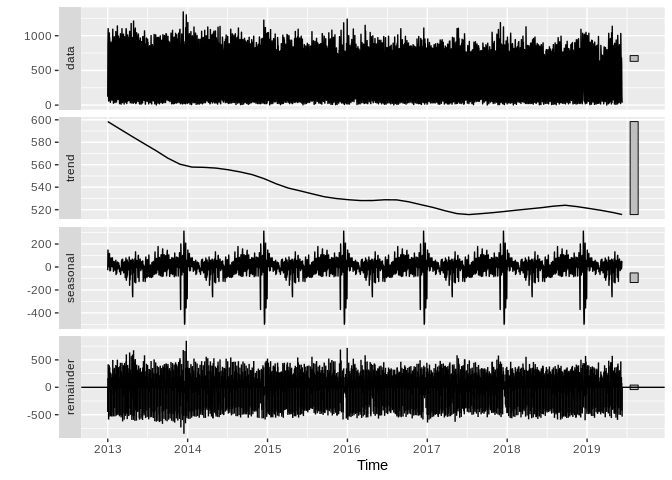
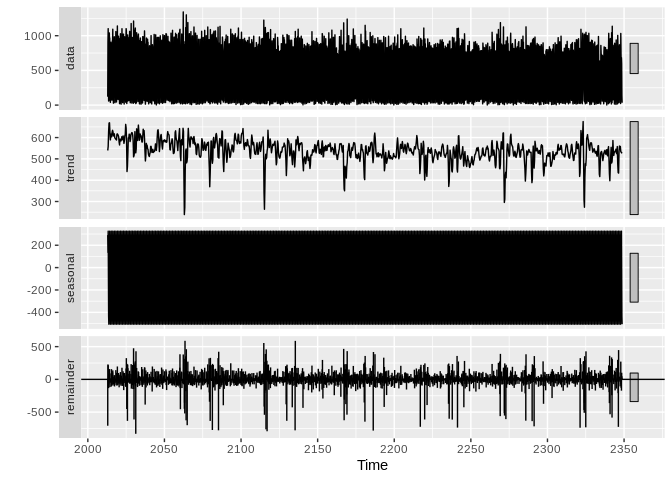
fix daily data frequency, build a quick skeleton for a bayesian approach

diff --git a/src/deliveries_lab.md b/src/deliveries_lab.md
@@ -29,7 +29,7 @@ dd <- na.omit(dd)
 ``` r
 ts.dd <- ts(dd$Deliveries, 
              start = as.numeric(c(2013, 1)), 
-             frequency = 365)  # This tells the series that it is daily data
+             frequency = 7)
 autoplot(ts.dd) + ggtitle("Daily deliveries of products") + ylab("Product deliveries")
 ```
 
@@ -47,20 +47,20 @@ autoplot(decomposed)  # Plot
 ![](deliveries_lab_files/figure-gfm/unnamed-chunk-3-1.png)<!-- -->
 
 ``` r
-mon <- rep(c(1, 0, 0, 0, 0, 0, 0), 100)
-tue <- rep(c(0, 1, 0, 0, 0, 0, 0), 100)
-wed <- rep(c(0, 0, 1, 0, 0, 0, 0), 100)
-thu <- rep(c(0, 0, 0, 1, 0, 0, 0), 100)
-fri <- rep(c(0, 0, 0, 0, 1, 0, 0), 100)
-sat <- rep(c(0, 0, 0, 0, 0, 1, 0), 100)
+mon <- rep(c(1, 0, 0, 0, 0, 0, 0), 52)
+tue <- rep(c(0, 1, 0, 0, 0, 0, 0), 52)
+wed <- rep(c(0, 0, 1, 0, 0, 0, 0), 52)
+thu <- rep(c(0, 0, 0, 1, 0, 0, 0), 52)
+fri <- rep(c(0, 0, 0, 0, 1, 0, 0), 52)
+sat <- rep(c(0, 0, 0, 0, 0, 1, 0), 52)
 
 week.m <- matrix(c(mon, tue, wed, thu, fri, sat),
                  ncol = 6,
                  byrow = FALSE)
 
-arima.e <- tsCV(tail(ts.dd, 700), farima, xreg = week.m, h = 1)
-arima.crit <- cMAPE(arima.e, tail(ts.dd, 700))
-arima.mape <- mean(abs(100*arima.e/tail(ts.dd, 700)), na.rm = TRUE)
+arima.e <- tsCV(tail(ts.dd, 364), farima, xreg = week.m, h = 1)
+arima.crit <- cMAPE(arima.e, tail(ts.dd, 364))
+arima.mape <- mean(abs(100*arima.e/tail(ts.dd, 364)), na.rm = TRUE)
 arima.rmse <- sqrt(mean(arima.e^2, na.rm = TRUE))
 
 arimabench <- matrix(c(arima.crit, arima.mape, arima.rmse),
@@ -73,10 +73,10 @@ kable(arimabench, "markdown")
 
 |        |    cMAPE |     MAPE | RMSE |
 | :----- | -------: | -------: | ---: |
-| DynReg | 38.57791 | 38.57791 |  255 |
+| DynReg | 6.075949 | 6.075949 |   48 |
 
 ``` r
-ets.e <- tsCV(tail(ts.dd, 70), fets, h = 1)
+ets.e <- tsCV(tail(ts.dd, 70), fTBATS, h = 1)
 ets.crit <- cMAPE(ets.e, tail(ts.dd, 70))
 ets.mape <- mean(abs(100*ets.e/tail(ts.dd, 70)), na.rm = TRUE)
 ets.rmse <- sqrt(mean(ets.e^2, na.rm = TRUE))
@@ -85,10 +85,39 @@ etsbench <- matrix(c(ets.crit, ets.mape, ets.rmse),
                ncol = 3,
                byrow = TRUE)
 colnames(etsbench) <- c("cMAPE", "MAPE", "RMSE")
-rownames(etsbench) <- c("ETS")
+rownames(etsbench) <- c("TBATS")
 kable(etsbench, "markdown")
 ```
 
-|     |    cMAPE |     MAPE |     RMSE |
-| :-- | -------: | -------: | -------: |
-| ETS | 500.9796 | 425.2318 | 368.0878 |
+|       |    cMAPE |     MAPE |     RMSE |
+| :---- | -------: | -------: | -------: |
+| TBATS | 285.9665 | 256.2595 | 238.7825 |
+
+## Try Bayesian approach for the heck of it
+
+``` r
+## BEGIN: function ##
+rabsts <- function(data, season.num, season.dur, pred.horizon) {
+  ##get trend or/and seasonal state
+  if(season.num==0){
+    ss <- bsts::AddLocalLinearTrend(list(), data)}
+  else{
+    ss <- bsts::AddLocalLinearTrend(list(), data)
+    ss <- bsts::AddSeasonal(ss, data, nseasons = season.num, season.duration = season.dur)}
+  
+  ##build Bayesial model
+  bsts.model <- bsts::bsts(data, state.specification = ss, niter = 666, ping=0, seed=1000)
+  
+  ##predict
+  result<-bsts::predict.bsts(bsts.model, horizon = pred.horizon, burn = SuggestBurn(0.1, bsts.model), quantiles = c(.025, .975))
+  pred<-data.frame(result$mean,result$median)
+  return(pred)
+}
+## END: function ##
+```
+
+``` r
+suppressMessages(library(bsts))
+
+pred <- rabsts(head(tail(ts.dd, 70), 63), season.num = 10, season.dur = 1, pred.horizon = 7)
+```
